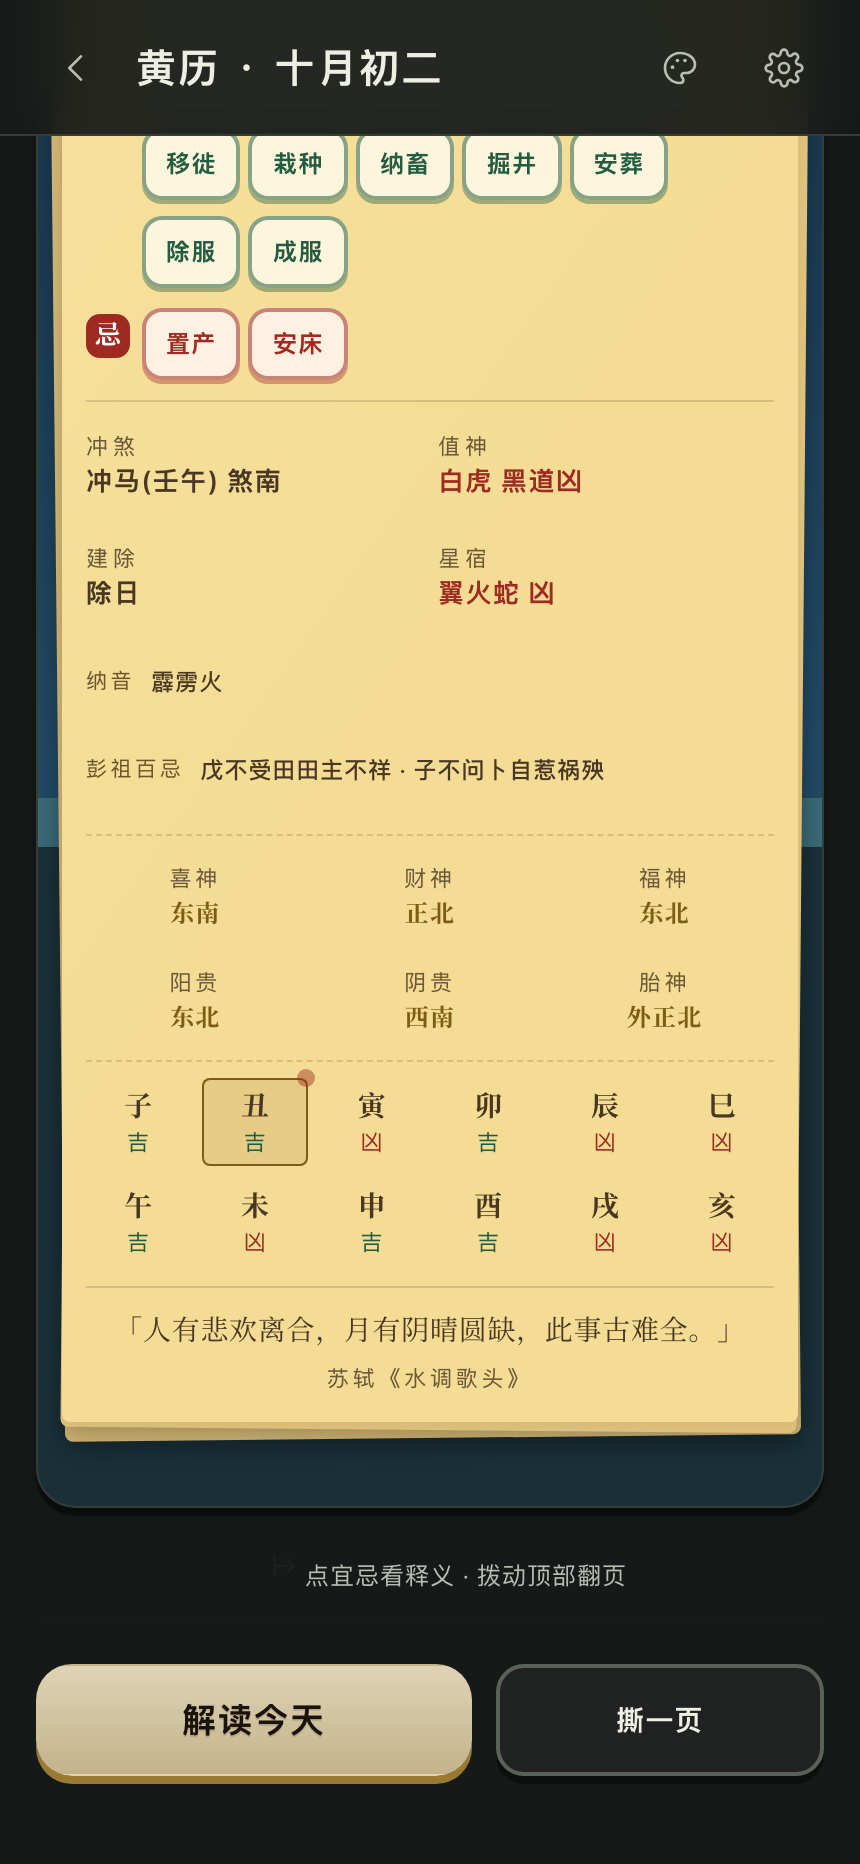
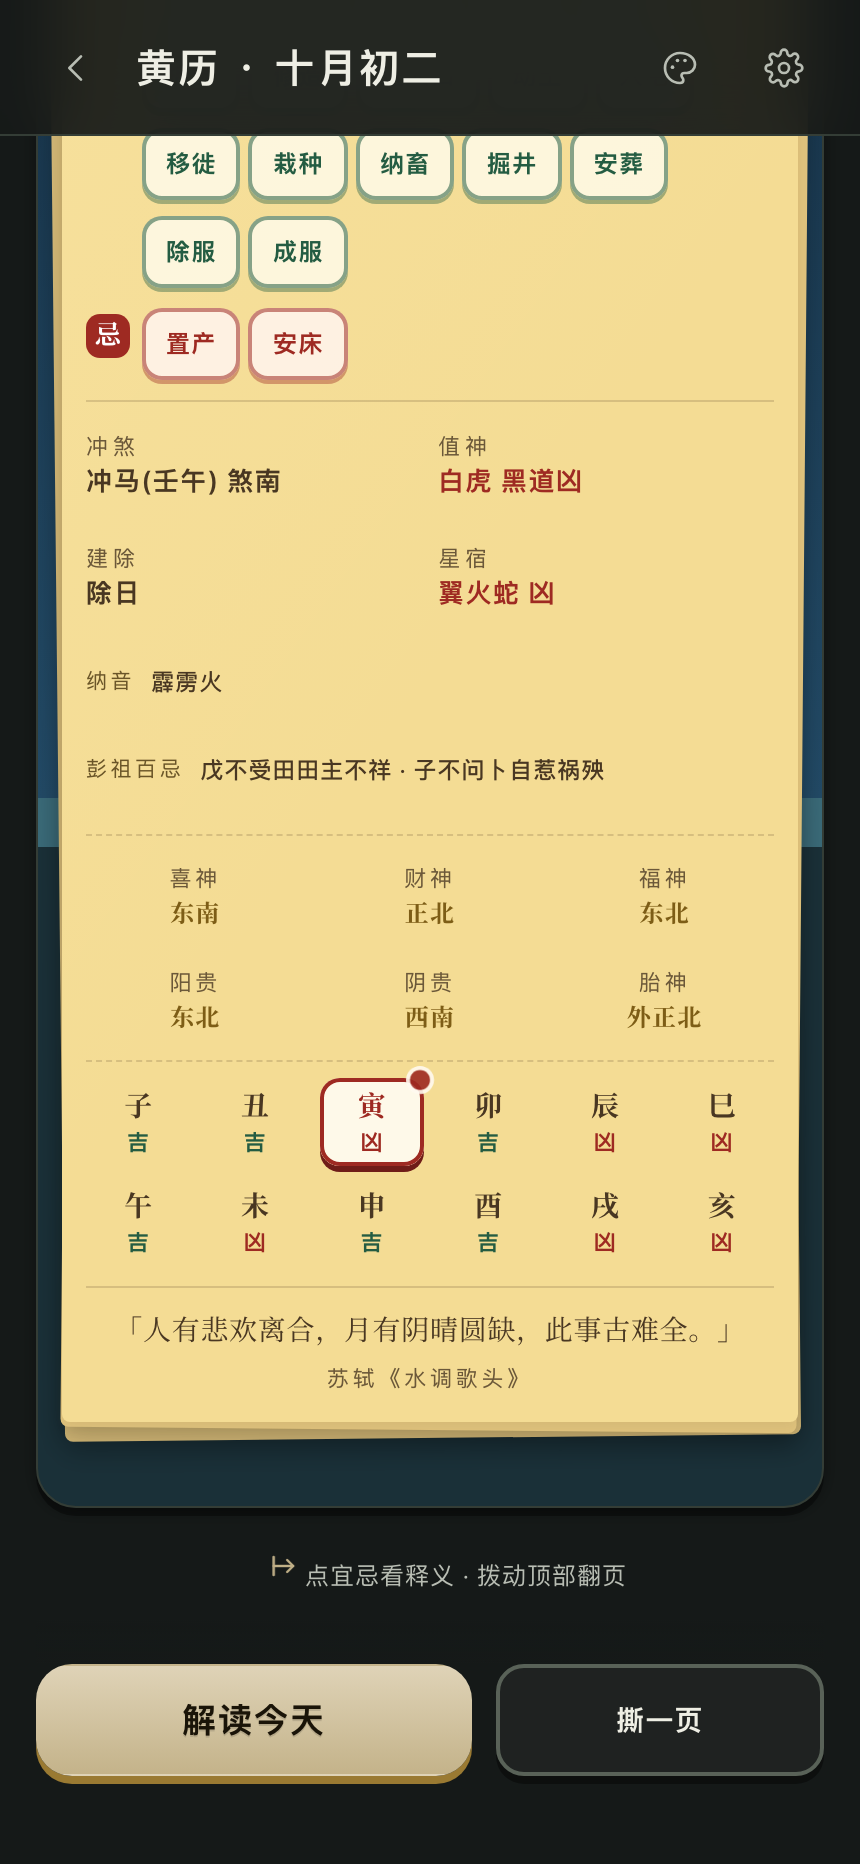
黄历当前时辰格改朱红描边厚边，卢恩符名改深墨描边胶囊（逆位朱红小标），截图脚本加 @chipN 动作
Claude-Session: https://claude.ai/code/session_01LrMMAYdb1uEeozDxPjYoxM

Changed region(s): [[0.3326, 0.5601, 0.514, 0.6845], [0.1512, 0.6534, 0.1814, 0.6845], [0.1512, 0.5912, 0.1814, 0.6223]]

diff --git a/src/styles/toon-buttons.css b/src/styles/toon-buttons.css
@@ -201,3 +201,33 @@
 }
 /* 印章同步加圆角，和胶囊同一个语气 */
 .m-almanac .al-col .al-mark { border-radius: 7px; }
+
+/* 第 51 轮：黄历时辰表的当前时辰格原来是 1px 金褐细框配浅棕底，右上角一颗 6px 小红点，
+   和上面已经改成描边胶囊的宜忌词条不是一套。改成奶白底、2px 朱红描边加 3px 深红硬厚边、圆角 10px，
+   用 inset 描边不改格子尺寸，十二格不跳位。小红点加白圈放大到 10px。
+   所有时辰格的吉凶字改圆体 800，地支字不动，纸面颜色不动。 */
+.m-almanac .al-hours .al-hour { border-radius: 10px; }
+.m-almanac .al-hours .al-hour i,
+.m-almanac .al-hgrid .al-hcell i {
+  font-family: var(--font-round, var(--font-sans));
+  font-weight: 800;
+}
+.m-almanac .al-hours .al-hour.now {
+  background: rgba(255, 252, 240, 0.92);
+  box-shadow: inset 0 0 0 2px var(--al-red), 0 3px 0 color-mix(in srgb, var(--al-red) 70%, #000);
+}
+.m-almanac .al-hours .al-hour.now b { color: var(--al-red); }
+.m-almanac .al-hours .al-hour.now::after {
+  top: -4px;
+  right: -3px;
+  width: 10px;
+  height: 10px;
+  box-shadow: 0 0 0 2px #fffaf0;
+}
+.m-almanac .al-hours .al-hour:active { transform: translateY(2px); }
+/* 详情里的十二时辰格同一个语气：当前格主色描边加厚边 */
+.m-almanac .al-hgrid .al-hcell { border-radius: 10px; }
+.m-almanac .al-hgrid .al-hcell.now {
+  border: 2px solid var(--accent);
+  box-shadow: 0 3px 0 var(--accent-3, var(--edge-color));
+}

diff --git a/src/styles/toon-props.css b/src/styles/toon-props.css
@@ -487,3 +487,40 @@
   padding: 0 10px;
   box-shadow: 0 3px 0 var(--edge-color);
 }
+
+/* 第 51 轮：卢恩翻开后石头下的符名原来是 12px 灰色宋体字，压在紫色绒布上几乎读不出，
+   逆位小标是 1px 细框。符名改白底 2px 深墨描边、2px 硬厚边的小胶囊，圆体 800 深墨字，
+   逆位小标改朱红实心小胶囊白字。五符十字石头上下挨得近，胶囊再收小一号并压到石头下沿上，不碰下一格。 */
+.m-runes .rn-stone .rn-stone-label {
+  top: calc(100% + 6px);
+  padding: 2px 9px;
+  border: 2px solid #2b2240;
+  border-radius: 999px;
+  background: #fffaf0;
+  box-shadow: 0 2px 0 #2b2240;
+  color: #2b2240;
+  font-family: var(--font-round, var(--font-sans));
+  font-weight: 800;
+  font-size: 12px;
+  letter-spacing: 0.04em;
+  line-height: 1.35;
+  /* contrast.css 给旧的奶油字加了四向深色描边，放进白胶囊里会糊成一团 */
+  text-shadow: none;
+}
+.m-runes .rn-stone .rn-stone-label i {
+  margin-left: 2px;
+  border: 0;
+  border-radius: 999px;
+  background: #e8463c;
+  color: #fff;
+  font-family: var(--font-round, var(--font-sans));
+  font-weight: 800;
+  padding: 0 5px;
+}
+.m-runes .rn-n5 .rn-stone .rn-stone-label {
+  top: calc(100% - 8px);
+  z-index: 2;
+  padding: 1px 6px;
+  font-size: 11px;
+  border-width: 1.5px;
+}

diff --git a/docs/claude-plan/TODO.md b/docs/claude-plan/TODO.md
@@ -147,7 +147,8 @@ P0 上架必需 · P1 影响付费转化 · P2 体验打磨。完成后打勾并
 - [x] **黄历宜忌词条像老网页的米色方块**（P2，第 49 轮 @readfull 长图发现）✅ 2026-11-10（纸面最显眼的「祭祀 · 沐浴 · 馀事勿取」是 3px 圆角、1px 浅褐细边的米色方块。改圆角 10px、2px 描边加 2px 厚边的小胶囊，圆体 700，宜墨绿描边奶白底，忌朱红描边浅粉底，「宜」「忌」印章圆角 7px。纸面颜色不动，仍是一页老黄历。宣纸、玄墨两种尺寸截图过目）
 - [x] **塔罗翻开后的牌框太薄** ✅ 2026-11-10（第 50 轮。WebGL 截图确认塔罗全程是 DOM 牌，没有 3D 版，两种模式看到的是同一张牌。牌面改奶油纸 #fffaf0、2.5px #2b2240 描边、圆角 10px、0 5px 0 深墨硬厚边加柔和投影，插画外加 2px 深墨内框。逆位牌整张转了 180°，抽牌时就加 `reversed` 类，厚边反向画，转过去后仍在屏幕下方。牌位标签「指引 · 逆位」改白底描边厚边胶囊，三张牌阵「选择 A · 逆位」两种尺寸都是一行。`toon-props.css` 第 50 轮一节，`tests/toon-tarot.test.mjs` 3 项，宣纸与玄墨两种尺寸截图过目）（P2，第 49 轮 @readfull 长图发现，2D 退回版）：翻开的牌面外只有一圈 1px 米色细框，和描边厚边的舞台、角标不是一套。完成标准：先在 WebGL 截图里确认 3D 牌是否同样问题，2D 版牌框改 2px 深墨描边加厚边圆角，两种尺寸截图过目。
 - [x] **黄历整页长图里底部操作条压在时辰表上** ✅ 2026-11-10（第 50 轮给 `iphone-shots.mjs` 加了 `@bottom` 动作，真实滚到页面最底截一屏。宣纸与玄墨两种尺寸下时辰表两行、诗句与出处都完整露出，操作条在纸面下方，确认只是 `@full` 长图把 sticky 条画在截图时位置造成的，代码不用改）（P2，第 49 轮发现）：`@full` 长图中「解读今天 / 撕一页」浮在时辰表第二行上，可能只是长图截法造成（sticky 条画在截图时的位置）。完成标准：在 393×852 真实滚动到底部截一张，确认时辰表最后一行不被操作条盖住，必要时给纸面底部加留白。
-- [ ] **黄历时辰表选中格是 1px 棕色细框**（P2，第 50 轮 `@bottom` 截图发现）：当前时辰「丑」是 1px 棕色细框配浅棕底，右上角一个小圆点，和已经卡通化的宜忌胶囊不是一套。完成标准：选中格改 2px 描边加 3px 厚边、圆角 10px，吉凶字圆体 800，纸面颜色不动，宣纸与玄墨两种尺寸截图过目。
+- [x] **黄历时辰表选中格是 1px 棕色细框** ✅ 2026-11-10（第 51 轮，当前时辰格改奶白底、2px 朱红 inset 描边加 0 3px 0 深红硬厚边、圆角 10px，地支字朱红，小红点放大到 10px 加白圈，所有时辰格吉凶字圆体 800。详情里的十二时辰格当前格同步改 2px 主色描边加厚边。用 inset 描边，十二格不跳位。`toon-buttons.css` 第 51 轮一节，`tests/toon-hours.test.mjs`，宣纸与玄墨两种尺寸 `@bottom` 截图过目）（P2，第 50 轮 `@bottom` 截图发现）：当前时辰「丑」是 1px 棕色细框配浅棕底，右上角一个小圆点，和已经卡通化的宜忌胶囊不是一套。完成标准：选中格改 2px 描边加 3px 厚边、圆角 10px，吉凶字圆体 800，纸面颜色不动，宣纸与玄墨两种尺寸截图过目。
+- [x] **卢恩石头下的符名是灰色细字** ✅ 2026-11-10（第 51 轮 @readfull 长图发现并当轮完成。翻开后石头下的「艾华兹」是 12px 灰色宋体，压在紫色绒布上读不清，逆位小标是 1px 细框。改白底 2px 深墨描边、0 2px 0 硬厚边的胶囊，圆体 800 深墨字，逆位小标朱红实心白字。五符十字胶囊收小并压到石头下沿，不碰下一格。`contrast.css` 旧的四向描边字影在胶囊里关掉。`toon-props.css` 第 51 轮一节，`tests/toon-runes-label.test.mjs`。单符、诺伦三符、五符十字，宣纸两种尺寸与玄墨截图过目。`iphone-shots.mjs` 新增 `@chipN-动作`，先点模式选项行第 N+1 项再截。六爻、御神签出结果后的长图也看过，没有明显显旧的地方）（P2）
 - [ ] **第 45 轮留下的未提交改动**（P1，第 46 轮发现，需要 Peyton 决定）：第 45 轮做完落球盘、转盘、硬币三项却没提交就中断了，改动留在工作区（`plinko/scene.js`、`wheel/view.js`、`coin/view.js`、`index.css`、`TODO.md`、`visual-direction.md` 与未跟踪的 `toon-minigames.css`、`tests/toon-minigames.test.mjs`）。按规则不是本轮产生的改动只能原样保留，所以第 46 轮没有提交它们，也没有动这几个文件。完成标准：Peyton 确认后由下一轮提交（测试已在含这些改动的工作区里全部通过），或者 Peyton 自己处理。
 - [x] **舞台下生辰行、生辰折叠卡、体感卡与「去填生辰」「修改」卡通化**（P2，第 47 轮 @readfull 长图发现）✅ 2026-11-10（财运、事业的生辰行和姻缘、八字的生辰折叠卡是 1px 细边，「去填生辰」「修改」是没有边框的浅粉平涂胶囊，体感卡也是细边。三张卡改 2px 描边加 4px 厚边、文字圆体 800，按钮改白底 2px 描边胶囊加 3px 厚边、主色字、按下下沉。`toon-buttons.css` 第 47 轮一节，`tests/toon-cards.test.mjs`）
 - [x] **舞台角标与底部提示卡通化**（P2，第 47 轮发现）✅ 2026-11-10（左上角「丁亥日 · 中签」「金钱课 · 待掷」等是 12px、字距 .08em 的半透明小签，叠在白云上分不出边界。所有玩法的 `.stage-badge` 与 `.stage-hint` 改 2px 描边胶囊、0 2px 0 厚边、圆体 800、字距 .04em。财运、姻缘、八字、六爻、风水两种尺寸截图过目）

diff --git a/docs/claude-plan/visual-direction.md b/docs/claude-plan/visual-direction.md
@@ -125,3 +125,7 @@
 
 附：第 50 轮参数
 - 塔罗牌面（`toon-props.css`，只作用于 `.tr-card` 里的牌，历史缩略图不变）：奶油纸 #fffaf0，2.5px #2b2240 描边，圆角 10px，`0 5px 0 #2b2240` 硬厚边加 `0 12px 18px rgba(43,34,64,.18)` 柔和投影（翻开后 `0 14px 22px .22`）。插画外 2px #2b2240 内框、圆角 5px。逆位牌 `.tr-card.reversed` 厚边与投影改为负 y，转 180° 后仍在下方。牌位标签翻开后白底 `--surface`、2px `--line-strong` 描边、`0 3px 0 --edge-color` 厚边、圆体 800 12px/20px、`--accent-text` 字、左右 10px 内边距。
+
+附：第 51 轮参数
+- 黄历时辰表当前格（`.al-hours .al-hour.now`）：底 rgba(255,252,240,.92)，`inset 0 0 0 2px --al-red` 描边加 `0 3px 0` 厚边（--al-red 70% 混黑），圆角 10px，地支字 --al-red，右上小红点 10px 加 2px #fffaf0 白圈。所有时辰格吉凶字圆体 800。详情十二时辰格当前格 2px --accent 描边、`0 3px 0 --accent-3` 厚边、圆角 10px。
+- 卢恩符名胶囊（`.rn-stone-label`）：#fffaf0 底，2px #2b2240 描边，`0 2px 0 #2b2240` 厚边，圆体 800 12px，字距 .04em，内边距 2px 9px，`text-shadow: none`。逆位小标 #e8463c 实心白字圆体 800。五符十字 1.5px 描边、11px、内边距 1px 6px，`top: calc(100% - 8px)` 压在石头下沿。
